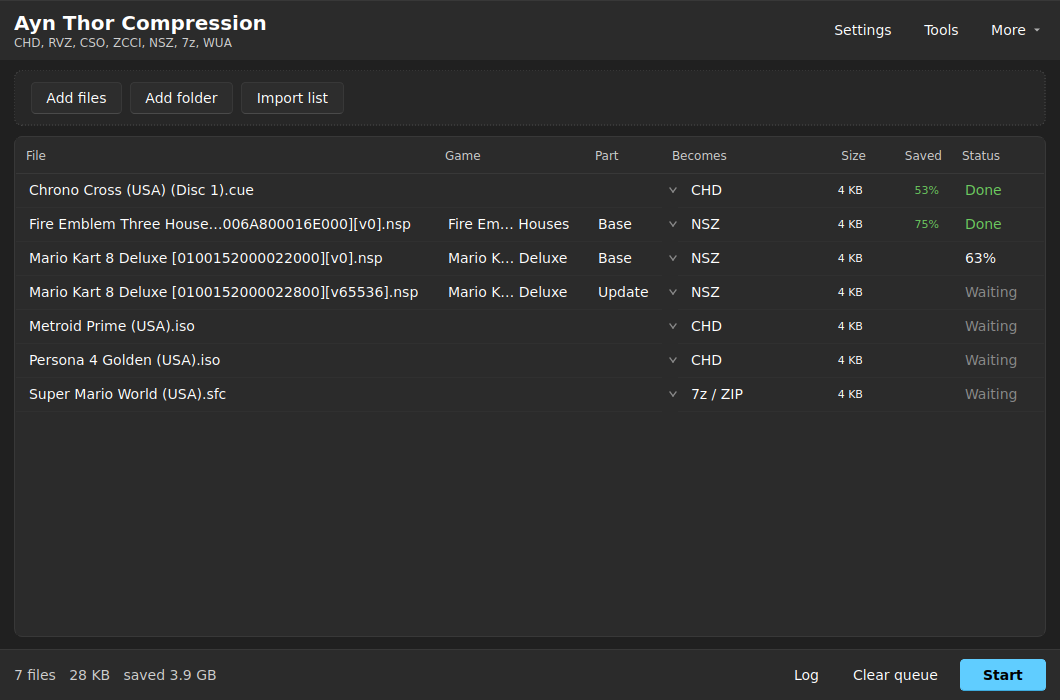
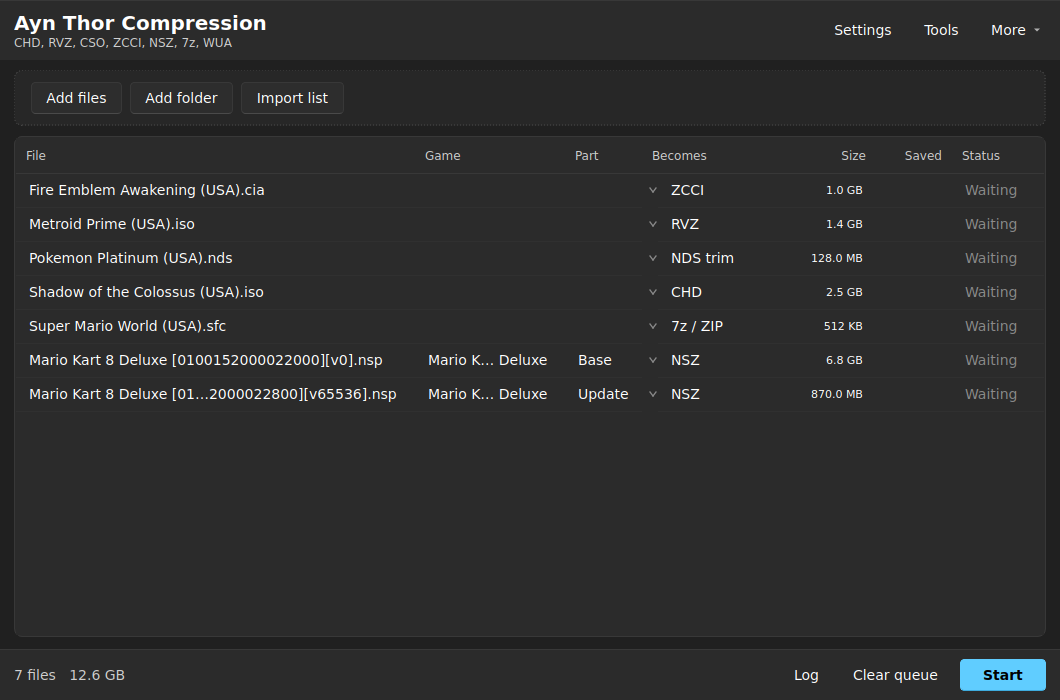
minor update on images

diff --git a/README.md b/README.md
@@ -21,7 +21,7 @@ under **Settings > Platform presets**.
 
 [Download](#download) · [Formats](#supported-formats) · [Legal](#legal) · [From source](#running-from-source) · [Changelog](CHANGELOG.md)
 
-![The queue, part way through a batch](docs/images/ui-dark.png)
+![A card's worth of files queued, each with the format its platform needs](docs/images/ui-dark.png)
 
 The format for each file is worked out when it is added. Click the **Becomes**
 cell to change it, or right-click for the same list plus everything else a row
@@ -137,8 +137,6 @@ Each download is checked against a SHA-256 recorded in
 disk, and versions are pinned, so upgrading a tool is a deliberate change with a
 new checksum rather than something that happens quietly on your machine. One
 entry cannot be verified, and the Tools window says which and why.
-
-![The Tools window](docs/images/ui-tools.png)
 
 [THIRD-PARTY-NOTICES.md](THIRD-PARTY-NOTICES.md) lists every tool, its version,
 its licence, and how to re-derive the hashes yourself.

diff --git a/CHANGELOG.md b/CHANGELOG.md
@@ -21,6 +21,11 @@ Notable changes, newest first. Versions follow
   first thing a bug report asks for.
 - **Help now opens the changelog** instead of a `docs/` folder.
 - A support link, in the About box and as the repository's Sponsor button.
+- The README screenshots are reproducible: `scripts/make_screenshots.py` builds
+  them from sparse files whose sizes are the media's own capacity or a published
+  figure, and every row is Waiting because nothing was converted to make them.
+  The previous pair had been staged, and said "28 KB" and "saved 3.9 GB" in the
+  same window.
 
 ## 1.0.0
 
